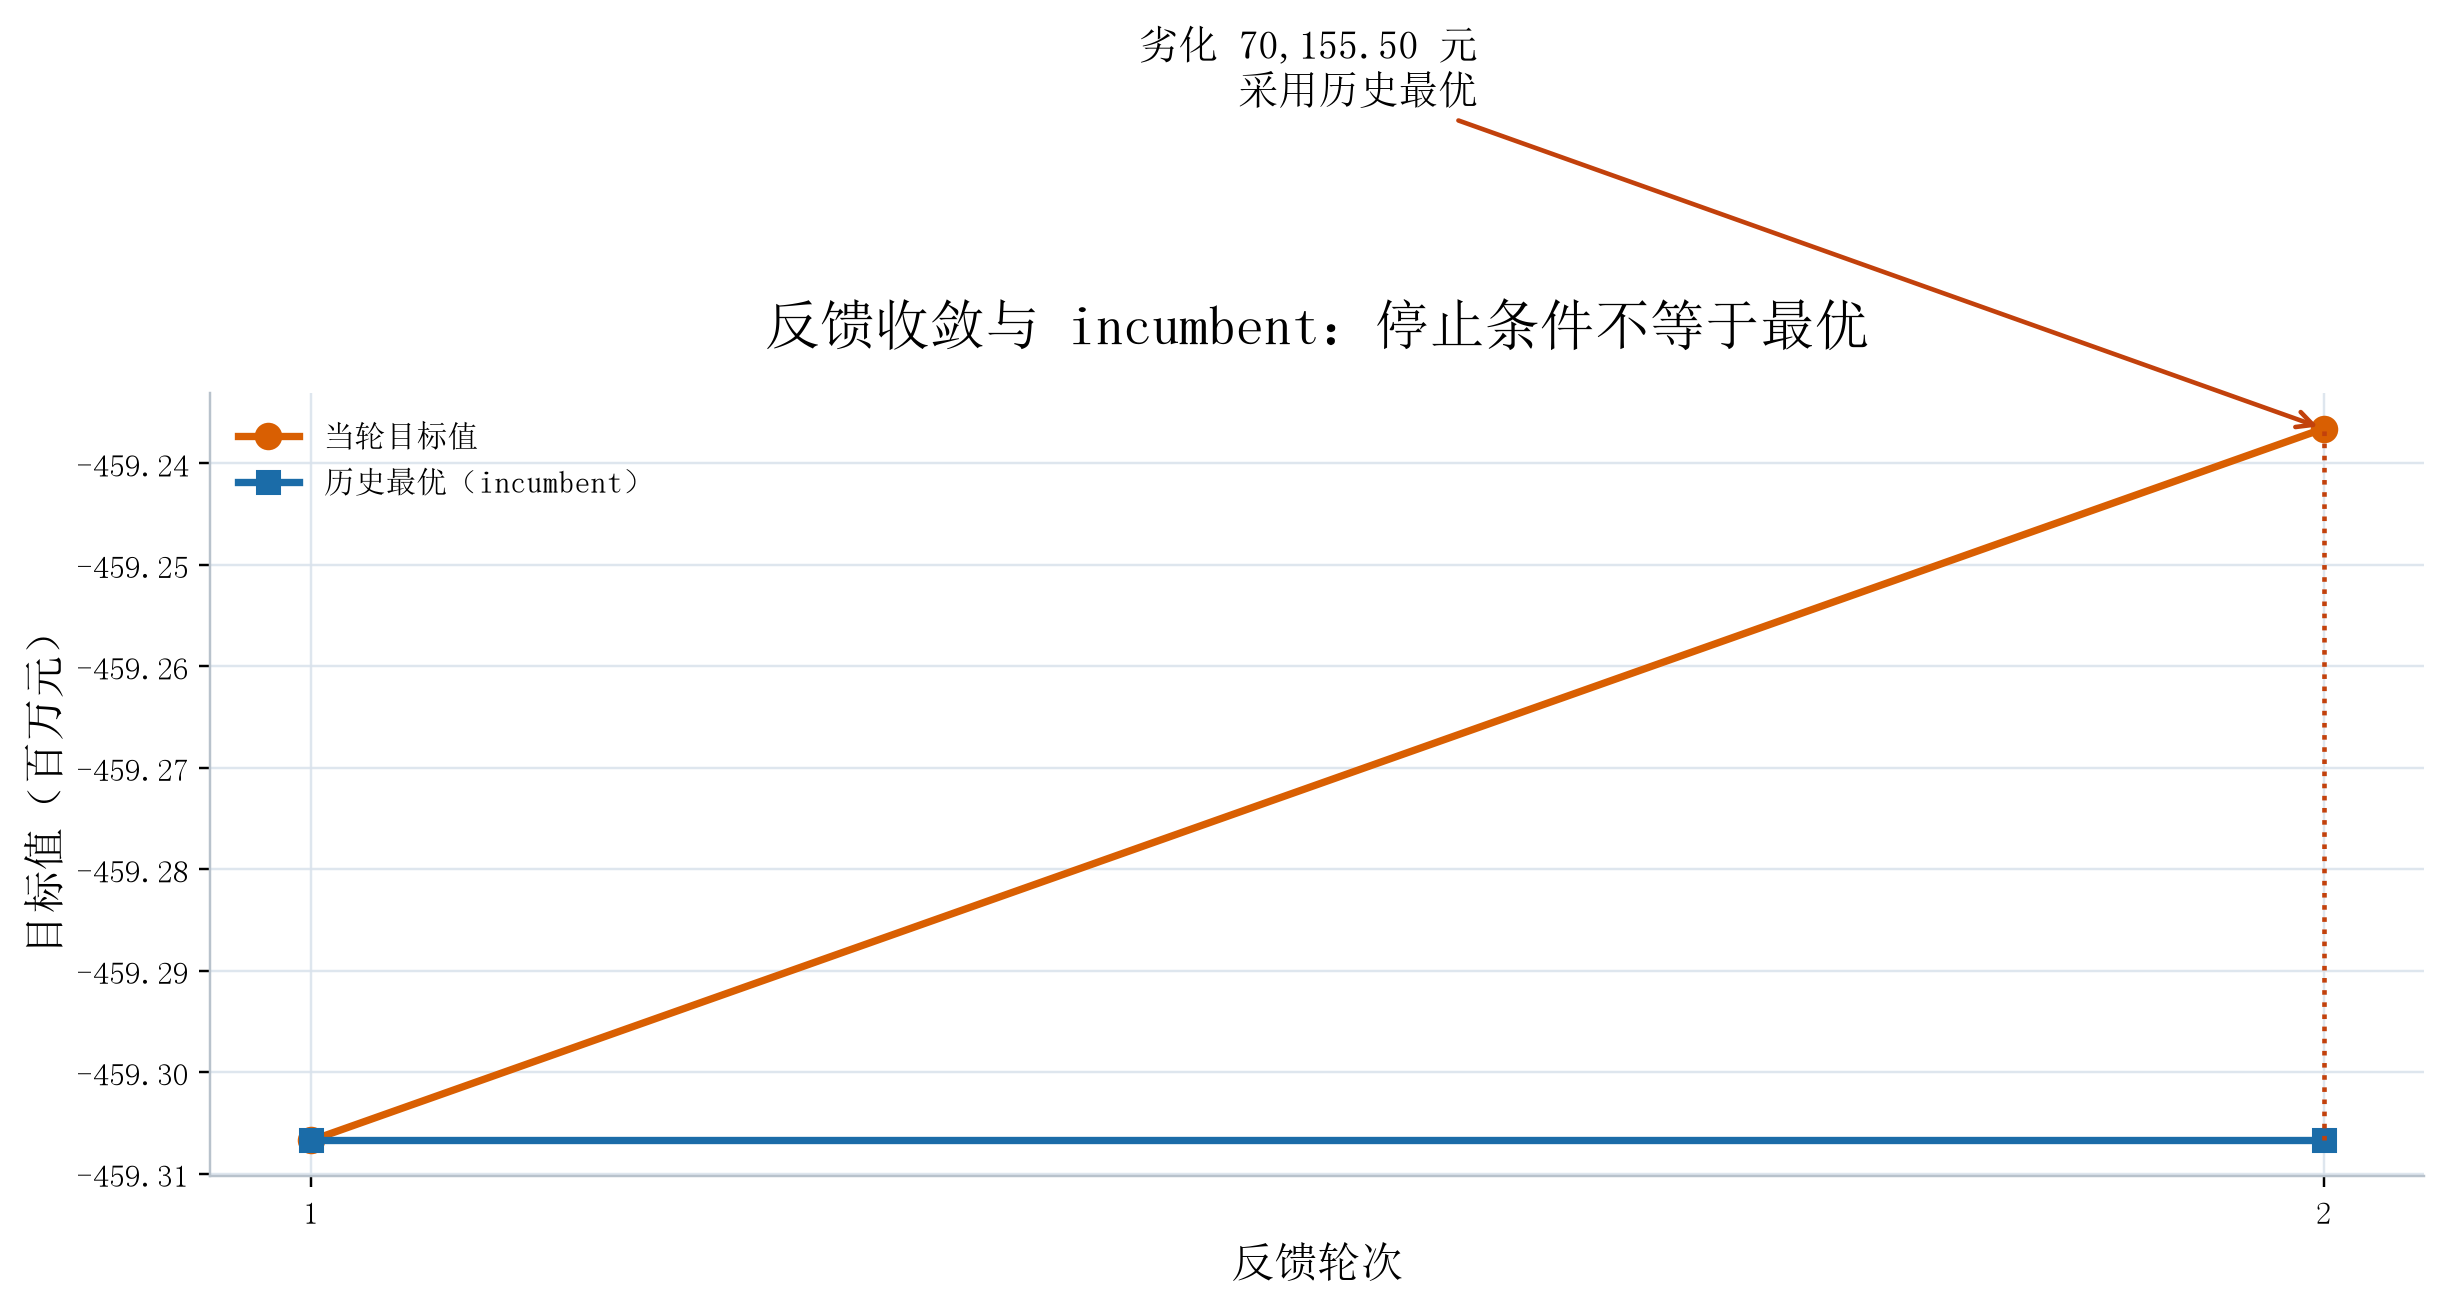
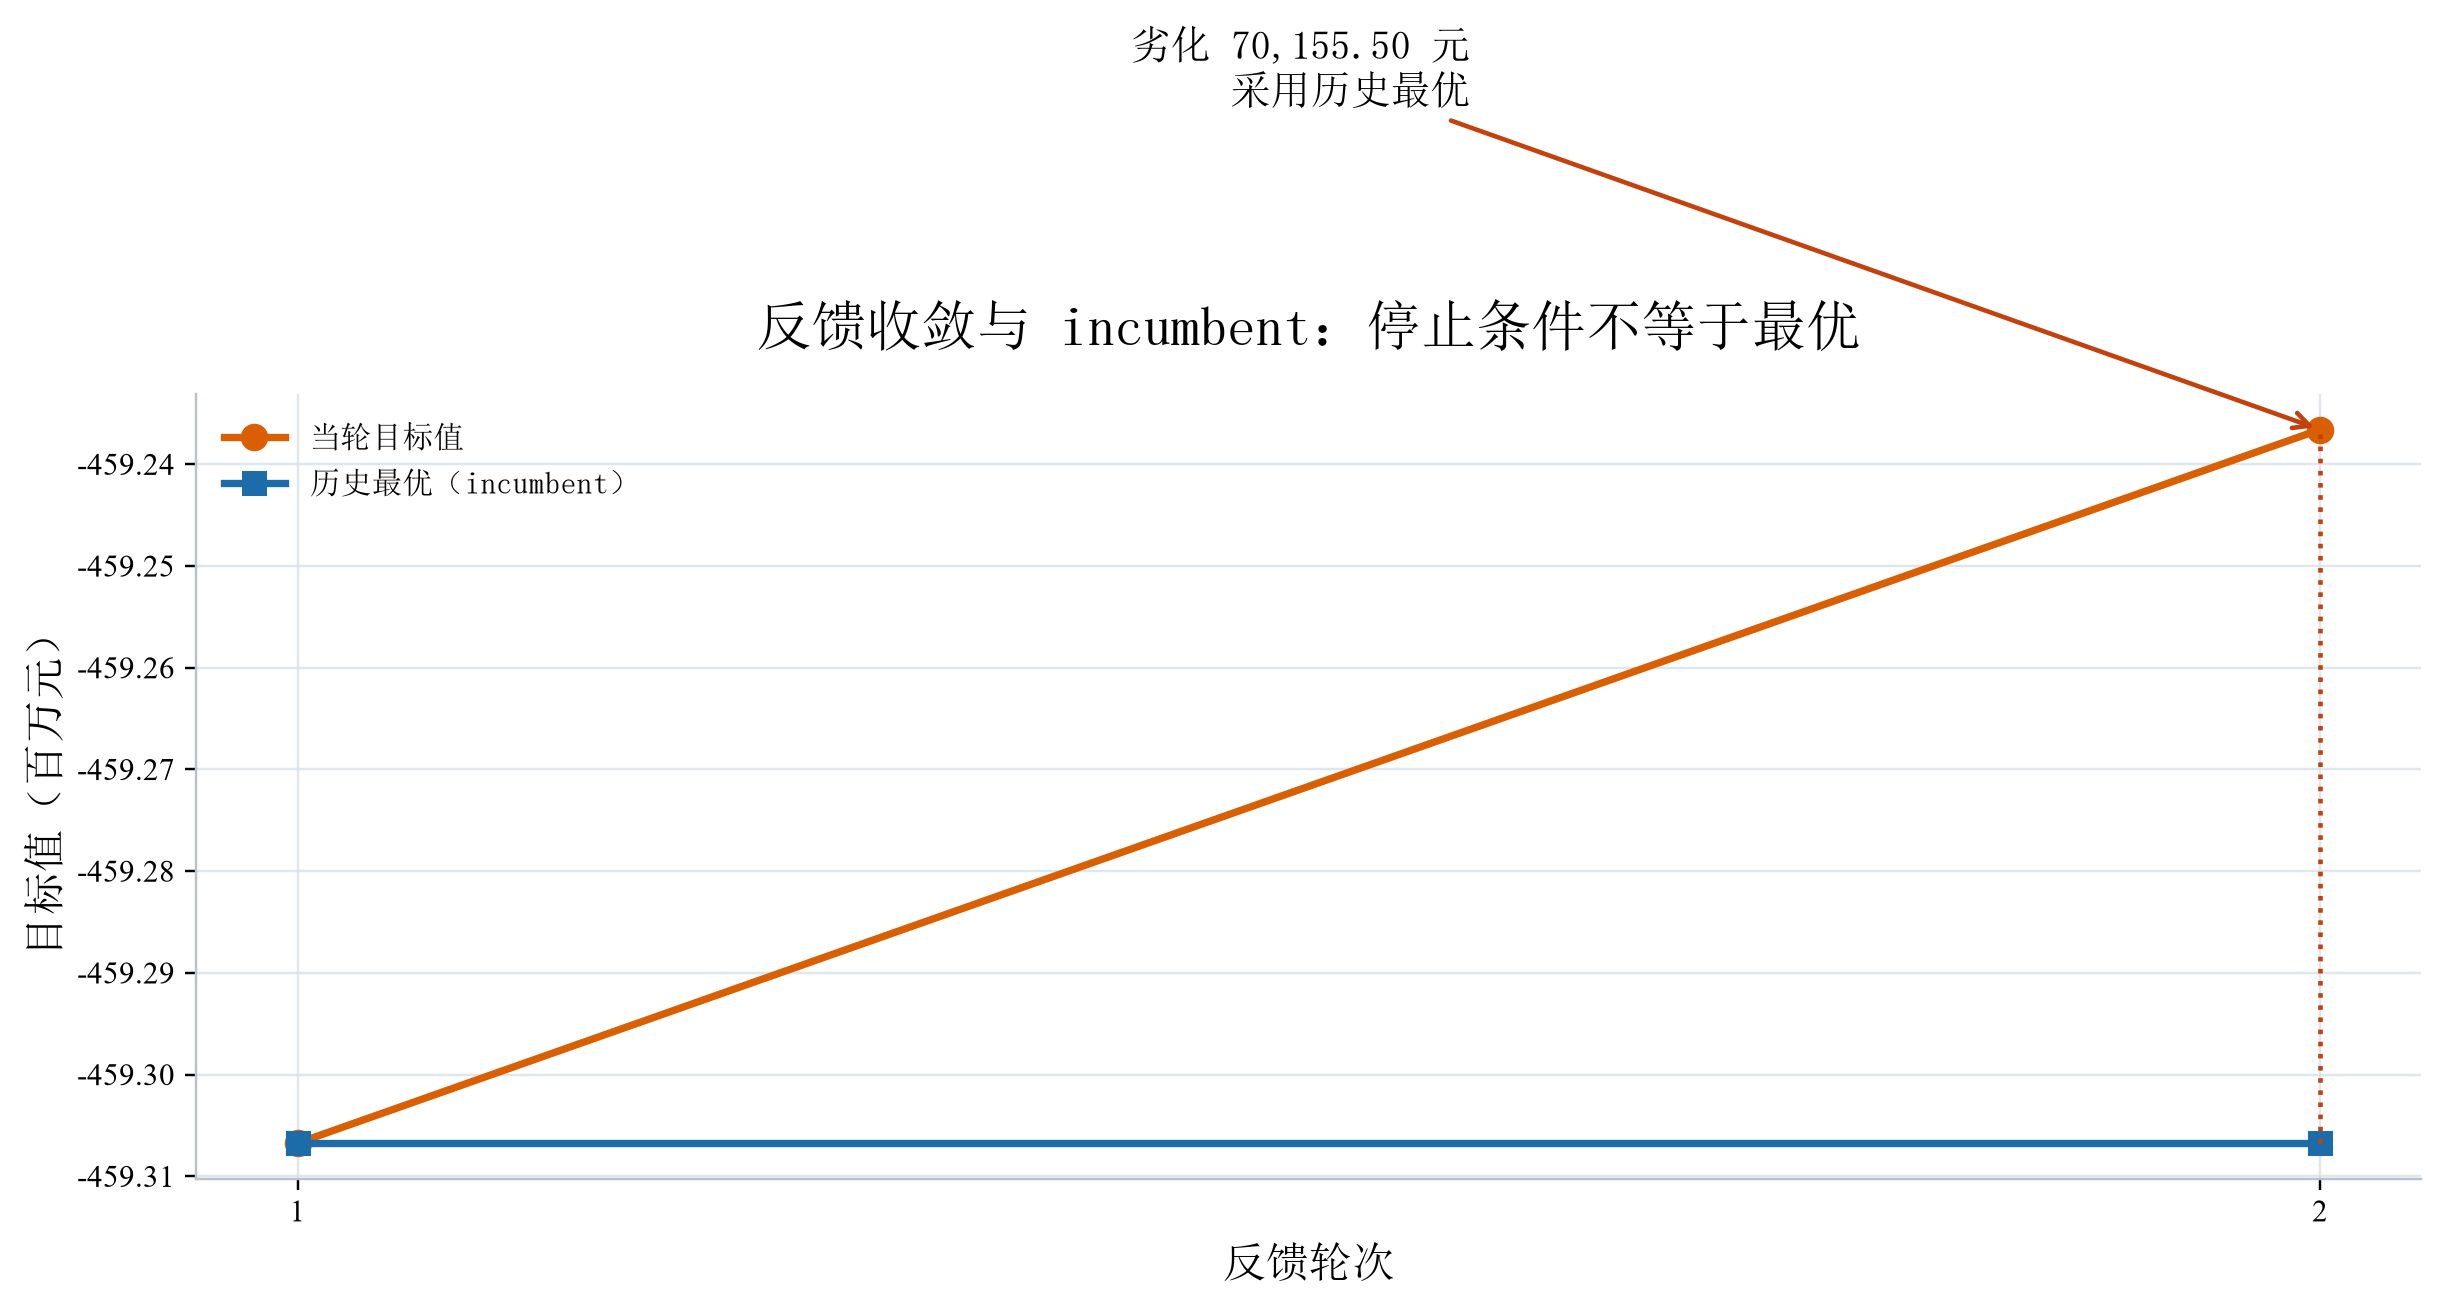
修复第四问图表字体与布局

diff --git a/t4/t4p1.py b/t4/t4p1.py
@@ -58,8 +58,8 @@ def configure_fonts(matplotlib):
 
     matplotlib.rcParams.update(
         {
-            "font.family": selected["zh"].get_name(),
-            "font.serif": [selected["zh"].get_name()],
+            "font.family": [selected["en"].get_name(), selected["zh"].get_name()],
+            "font.serif": [selected["en"].get_name(), selected["zh"].get_name()],
             "axes.unicode_minus": False,
             "figure.facecolor": "#FFFFFF",
             "axes.facecolor": "#FFFFFF",
@@ -454,7 +454,7 @@ def make_alpha_pressure(sensitivity, plot_dir: Path, plt, zh_font, en_font) -> N
             ha="center",
             va="bottom",
             fontsize=12,
-            fontproperties=zh_font,
+            fontproperties=en_font,
             color="#000000",
         )
     bottom_ax.text(
@@ -494,9 +494,9 @@ def make_alpha_pressure(sensitivity, plot_dir: Path, plt, zh_font, en_font) -> N
         color="#000000",
         pad=14,
     )
-    apply_axis_fonts(top_ax, zh_font, en_font)
-    apply_axis_fonts(objective_ax, zh_font, en_font)
-    apply_axis_fonts(bottom_ax, zh_font, en_font)
+    apply_axis_fonts(top_ax, en_font, en_font)
+    apply_axis_fonts(objective_ax, en_font, en_font)
+    apply_axis_fonts(bottom_ax, en_font, en_font)
 
     fig.tight_layout()
     fig.savefig(plot_dir / "alpha_pressure_transmission.png", dpi=220, bbox_inches="tight", facecolor="#FFFFFF")
